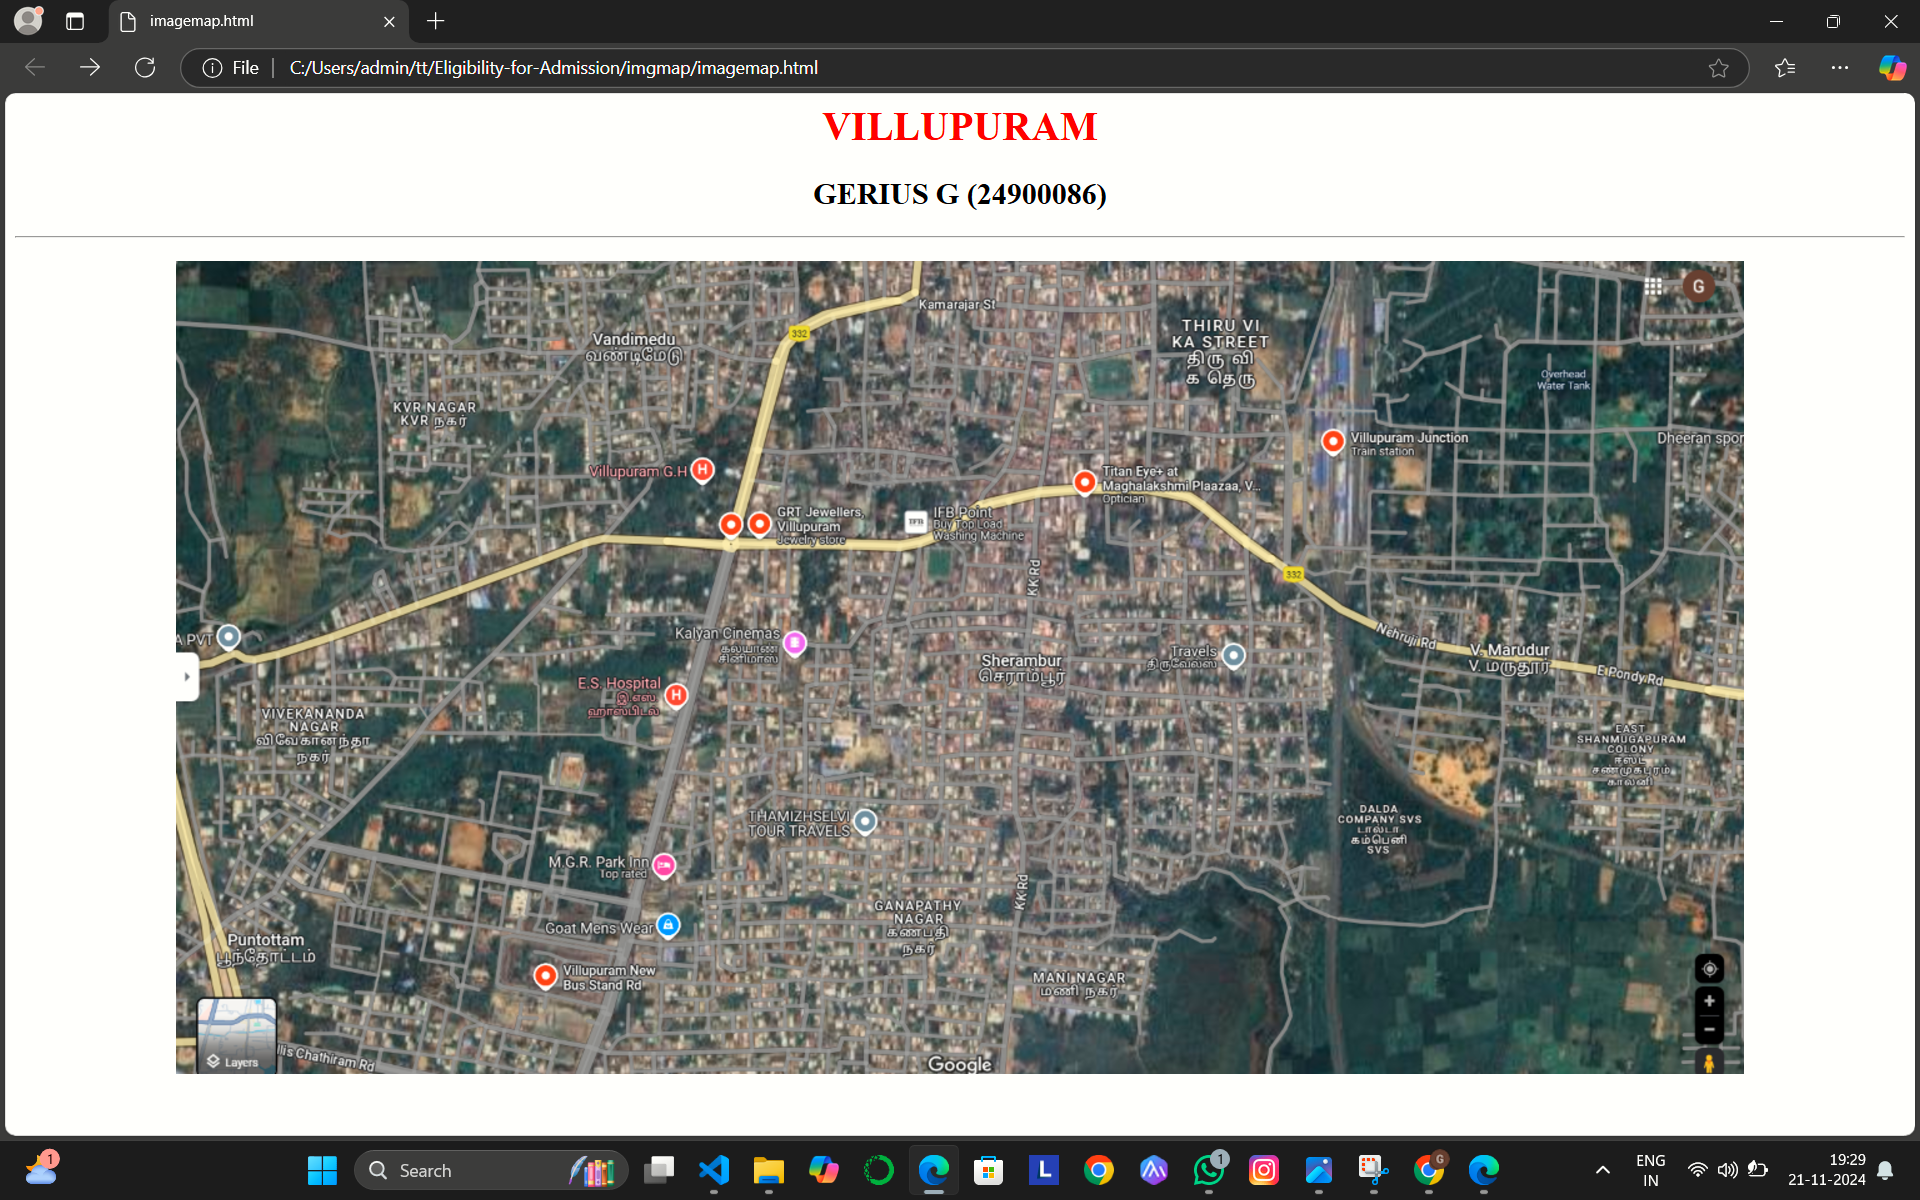
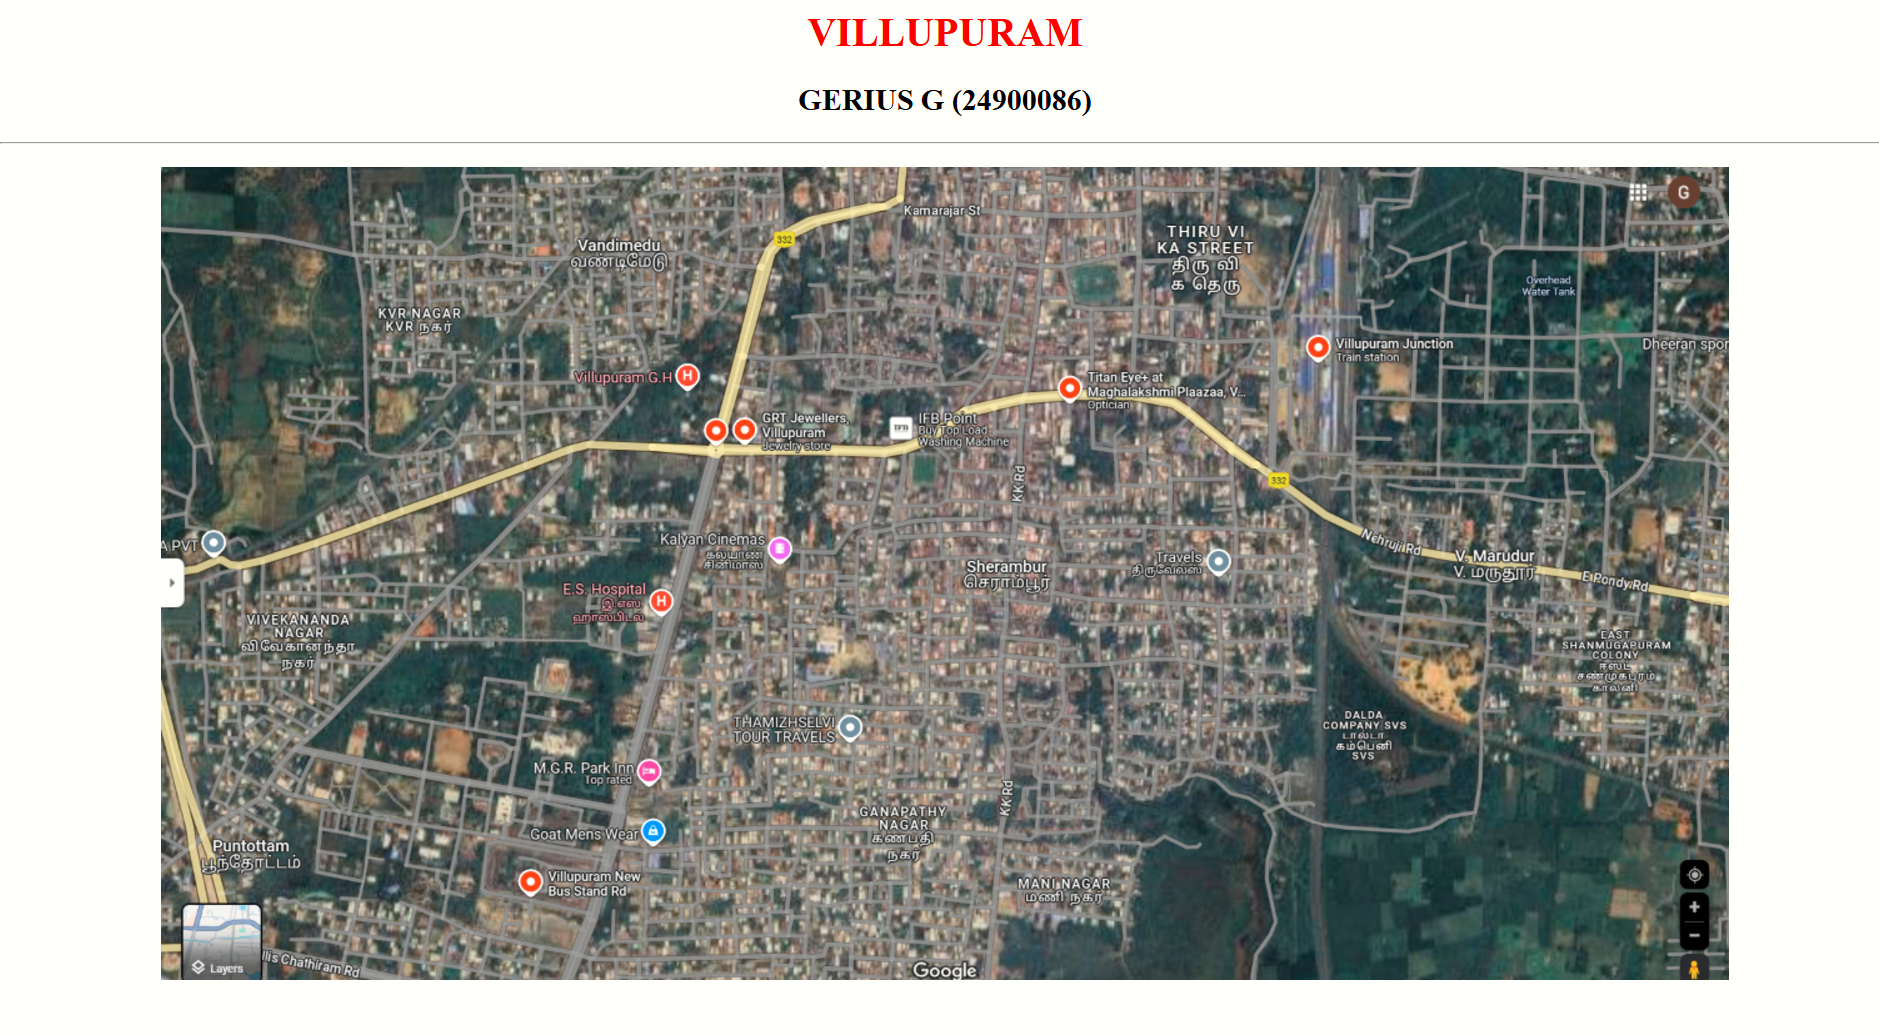
Success

diff --git a/imagemap/mapapp/static/imagemap.html b/imagemap/mapapp/static/imagemap.html
@@ -11,15 +11,18 @@
         <hr>
         <h3>
             <center>
-                <img src="vilupurammap.png" usemap="#image-map" width="800" height="600">
+               
+                <img src="1.png" usemap="#image-map">
 
-<map name="image-map">
-    <area target="" alt="ES hospital" title="ES hospital" href="es.html" coords="309,318,421,376" shape="rect">
-    <area target="" alt="villupuram bus stand" title="villupuram bus stand" href="busstand.html" coords="276,553,392,590" shape="rect">
-    <area target="" alt="grt jewellers" title="grt jewellers" href="jewellers.html" coords="449,189,552,223" shape="rect">
-    <area target="" alt="mahalakshmi plaza" title="mahalakshmi plaza" href="plaza.html" coords="708,157,868,198" shape="rect">
-    <area target="" alt="villupuram junction" title="villupuram junction" href="junction.html" coords="902,127,1045,162" shape="rect">
-</map>
+                <map name="image-map">
+                    <area target="" alt="bus stand" title="bus stand" href="bus stand.html" coords="171,556,303,615" shape="rect">
+                    <area target="" alt="ES hosptial" title="ES hosptial" href="ES.html" coords="250,277,356,337" shape="rect">
+                    <area target="" alt="jewellers" title="jewellers" href="jewellers.html" coords="400,106,488,178" shape="rect">
+                    <area target="" alt="junction" title="junction" href="junction.html" coords="974,14,1035,139" shape="rect">
+                    <area target="" alt="plaza " title="plaza " href="plaza.html" coords="732,68,938,127" shape="rect">
+                </map>
+
+
             </center>
         </h3>
 </html>

diff --git a/imagemap/mapapp/static/ES.html b/imagemap/mapapp/static/ES.html
@@ -11,7 +11,7 @@
     <hr>
     <h3>
         <center> 
-        <img src="eshopital.png" >
+        <img src="3.png" width="400" height-="200">
         </center>
         <br>
         <hr>
@@ -23,7 +23,7 @@
         <br>
         <li>
             <font size="5">
-                stablished is 2007, E.S Hospital became a house hold name for tertiary care hospital services in villupuram over the years late 1985, E.S Hospital Health care, lead by the vision of Dr. S.Saravanan of creating an integrated health care delivery system in villupuram dist.
+                Established is 2007, E.S Hospital became a house hold name for tertiary care hospital services in villupuram over the years late 1985, E.S Hospital Health care, lead by the vision of Dr. S.Saravanan of creating an integrated health care delivery system in villupuram dist.
             </font>
         </li>
         <br>

diff --git a/imagemap/mapapp/static/plaza.html b/imagemap/mapapp/static/plaza.html
@@ -11,7 +11,7 @@
     <hr>
     <h3>
         <center> 
-        <img src="plaza.png" >
+        <img src="5.png" width="600" height="400">
         </center>
         <br>
         <hr>
@@ -30,7 +30,7 @@
         <br>
         <li>
             <font size="5">
-                Greens – Hyper Market is one of the best leading super market in Villupuram,All the latest designer collection on sales, offers and discounts for your favorite fashion item. Save your money on Maghalakshmi Plaazaa
+                Greens-Hyper Market is one of the best leading super market in Villupuram,All the latest designer collection on sales, offers and discounts for your favorite fashion item. Save your money on Maghalakshmi Plaazaa
             </font>
         </li>
         <br>

diff --git a/imagemap/mapapp/static/bus stand.html b/imagemap/mapapp/static/bus stand.html
@@ -11,7 +11,7 @@
     <hr>
     <h3>
         <center> 
-        <img src="busstand.png" >
+        <img src="2.png" >
         </center>
         <br>
         <hr>

diff --git a/imagemap/mapapp/static/junction.html b/imagemap/mapapp/static/junction.html
@@ -11,7 +11,7 @@
     <hr>
     <h3>
         <center> 
-        <img src="junction.png" >
+        <img src="6.png" >
         </center>
         <br>
         <hr>

diff --git a/imagemap/mapapp/static/jewellers.html b/imagemap/mapapp/static/jewellers.html
@@ -11,7 +11,7 @@
     <hr>
     <ul>
         <center> 
-        <img src="grt.png" >
+        <img src="4.png" >
         </center>
         <br>
         <hr>

diff --git a/README.md b/README.md
@@ -1,5 +1,5 @@
 # Ex04 Places Around Me
-## Date: 22/11/2024
+## Date: 25/11/2024
 
 ## AIM
 To develop a website to display details about the places around my house.
@@ -41,14 +41,14 @@ imagemap.html
         <hr>
         <h3>
             <center>
-                <img src="vilupurammap.png" usemap="#image-map" width="800" height="600">
+                <img src="1.png" usemap="#image-map" width="800" height="600">
 
 <map name="image-map">
-    <area target="" alt="ES hospital" title="ES hospital" href="es.html" coords="309,318,421,376" shape="rect">
-    <area target="" alt="villupuram bus stand" title="villupuram bus stand" href="busstand.html" coords="276,553,392,590" shape="rect">
-    <area target="" alt="grt jewellers" title="grt jewellers" href="jewellers.html" coords="449,189,552,223" shape="rect">
-    <area target="" alt="mahalakshmi plaza" title="mahalakshmi plaza" href="plaza.html" coords="708,157,868,198" shape="rect">
-    <area target="" alt="villupuram junction" title="villupuram junction" href="junction.html" coords="902,127,1045,162" shape="rect">
+    <area target="" alt="bus stand" title="bus stand" href="bus stand.html" coords="171,556,303,615" shape="rect">
+    <area target="" alt="jewellers" title="jewellers" href="jewellers.html" coords="400,106,488,178" shape="rect">
+    <area target="" alt="junction" title="junction" href="junction.html" coords="974,14,1035,139" shape="rect">
+    <area target="" alt="es hospital" title="es hospital" href="ES hospital.html" coords="253,282,358,344" shape="rect">
+    <area target="" alt="plaza" title="plaza" href="plaza.html" coords="702,67,812,131" shape="rect">
 </map>
             </center>
         </h3>
@@ -69,7 +69,7 @@ bus stand.html
     <hr>
     <h3>
         <center> 
-        <img src="busstand.png" >
+        <img src="2.png" >
         </center>
         <br>
         <hr>
@@ -117,7 +117,7 @@ ES hospital.html
     <hr>
     <h3>
         <center> 
-        <img src="eshopital.png" >
+        <img src="3.png" >
         </center>
         <br>
         <hr>
@@ -158,7 +158,7 @@ jewellers.html
     <hr>
     <ul>
         <center> 
-        <img src="grt.png" >
+        <img src="4.png" >
         </center>
         <br>
         <hr>
@@ -193,6 +193,50 @@ jewellers.html
 
 </html>
 
+junction.html
+
+<html>
+<body bgcolor="teal">
+    <h1 align="center">
+        <font color="red">
+          Villupuram
+        </font>
+    </h1>
+    <h2 align="center">
+        Villupuram junction
+    </h2>
+    <hr>
+    <h3>
+        <center> 
+        <img src="6.png" >
+        </center>
+        <br>
+        <hr>
+        <li>
+            <font size="5">
+               Villupuram junction located in Villupuram, a town in Villupuram district in Tamil Nadu, INDIA. 
+            </font>
+        </li>
+        <br>
+        <li>
+            <font size="5">
+                Villupuram railway station covers about 20 acres of a vast area, six platforms – Platforms 1 to 3 occupy a length of 600 metres (2,000 ft) and platforms 4 to 6 occupy a length of 550 metres each and few goods/freight train lines which occupies 650 metres (2,130 ft) each and there are few shunting lines.
+        </li>
+        <br>
+        <li>
+            <font size="5">
+                Railway lines can be crossed with the help of a mass structured over bridge. The railway station is located off the East Pondy Road in the Keelperumpakkam neighborhood
+            </font>
+        </li>
+        <br>
+        <li>
+            <font size="5">
+                The Villupuram Old Bus Stand (Town bus stand) is situated at 2 km (1.2 mi) and New bus stand (Central bus stand) is situated at 4 km 
+            </font>
+        </li>
+    </h3>
+</body>
+
 plaza.html
 
 <html>
@@ -208,7 +252,7 @@ plaza.html
     <hr>
     <h3>
         <center> 
-        <img src="plaza.png" >
+        <img src="5.png" >
         </center>
         <br>
         <hr>
@@ -241,60 +285,15 @@ plaza.html
 
 </html>
 
-junction.html
-
-<html>
-<body bgcolor="teal">
-    <h1 align="center">
-        <font color="red">
-          Villupuram
-        </font>
-    </h1>
-    <h2 align="center">
-        Villupuram junction
-    </h2>
-    <hr>
-    <h3>
-        <center> 
-        <img src="junction.png" >
-        </center>
-        <br>
-        <hr>
-        <li>
-            <font size="5">
-               Villupuram junction located in Villupuram, a town in Villupuram district in Tamil Nadu, INDIA. 
-            </font>
-        </li>
-        <br>
-        <li>
-            <font size="5">
-                Villupuram railway station covers about 20 acres of a vast area, six platforms – Platforms 1 to 3 occupy a length of 600 metres (2,000 ft) and platforms 4 to 6 occupy a length of 550 metres each and few goods/freight train lines which occupies 650 metres (2,130 ft) each and there are few shunting lines.
-        </li>
-        <br>
-        <li>
-            <font size="5">
-                Railway lines can be crossed with the help of a mass structured over bridge. The railway station is located off the East Pondy Road in the Keelperumpakkam neighborhood
-            </font>
-        </li>
-        <br>
-        <li>
-            <font size="5">
-                The Villupuram Old Bus Stand (Town bus stand) is situated at 2 km (1.2 mi) and New bus stand (Central bus stand) is situated at 4 km 
-            </font>
-        </li>
-    </h3>
-</body>
-
 ```
 
 ## OUTPUT
-
-![alt text](1.png)
-![alt text](2.png)
-![alt text](3.png)
-![alt text](4.png)
-![alt text](5.png)
-![alt text](6.png)
+![alt text](<Screenshot (43).png>)
+![alt text](<Screenshot (46).png>)
+![alt text](<Screenshot (50).png>)
+![alt text](<Screenshot (44).png>)
+![alt text](<Screenshot (48).png>)
+![alt text](<Screenshot (49).png>)
 
 ## RESULT
 The program for implementing image maps using HTML is executed successfully.
